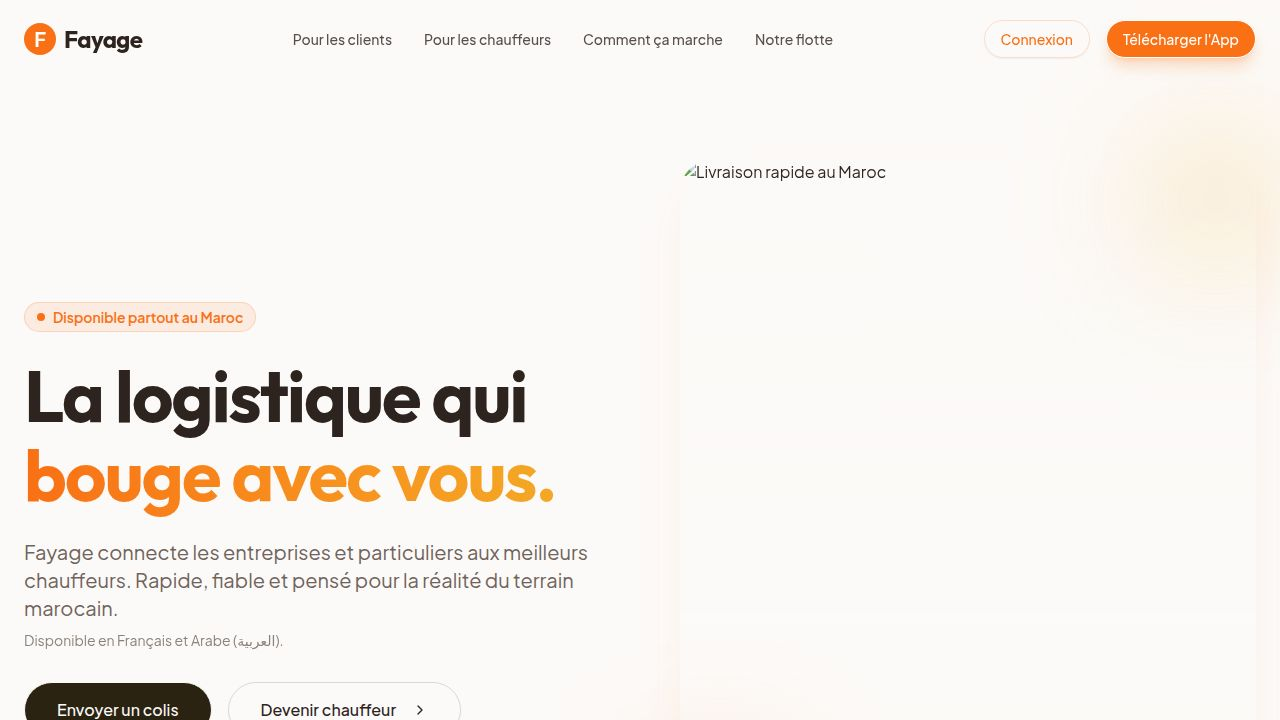
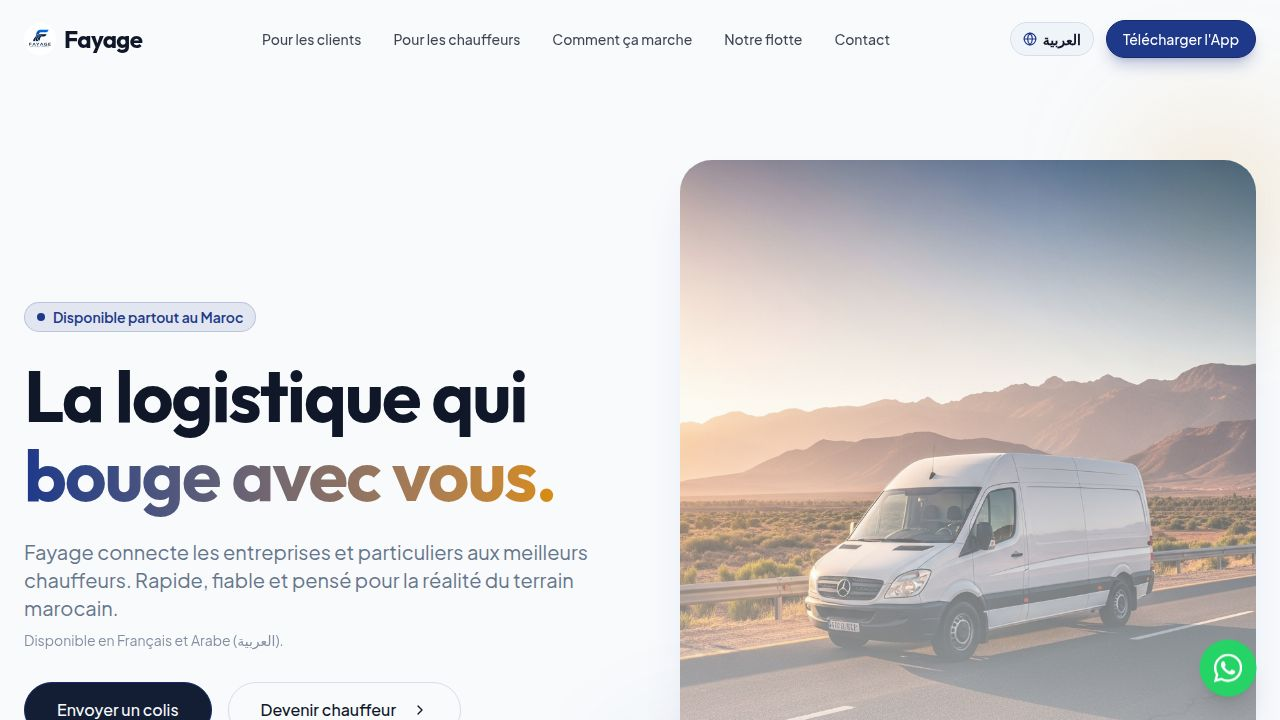
Fix error preventing the mobile app from launching
Resolve a circular import issue in `VoiceCallScreen.web.tsx` that caused a runtime crash by replacing the self-referencing export with a functional web fallback component.

Replit-Commit-Author: Agent
Replit-Commit-Session-Id: 109629f8-e805-491a-9d01-2f0f5c9dda43
Replit-Commit-Checkpoint-Type: full_checkpoint
Replit-Commit-Event-Id: 408c1b81-cdec-4674-aa23-cfdaa5160126
Replit-Commit-Screenshot-Url: https://storage.googleapis.com/screenshot-production-us-central1/bdb8f9e1-942b-4f8b-a3f1-cf6bf7dab315/109629f8-e805-491a-9d01-2f0f5c9dda43/80FPcTW
Replit-Helium-Checkpoint-Created: true

diff --git a/artifacts/mobile/screens/VoiceCallScreen.web.tsx b/artifacts/mobile/screens/VoiceCallScreen.web.tsx
@@ -1,1 +1,57 @@
-export { default } from "./VoiceCallScreen";
+import React from "react";
+import { View, StyleSheet, Pressable } from "react-native";
+import { useNavigation } from "@react-navigation/native";
+import { ThemedText } from "@/components/ThemedText";
+import { Icon } from "@/components/Icon";
+import { useLanguage } from "@/contexts/LanguageContext";
+
+export default function VoiceCallScreen() {
+  const navigation = useNavigation();
+  const { t } = useLanguage();
+
+  return (
+    <View style={styles.container}>
+      <Icon name="phone-off" size={48} color="#94A3B8" />
+      <ThemedText style={styles.title}>{t("voiceCallNotSupported") ?? "Appel non disponible"}</ThemedText>
+      <ThemedText style={styles.sub}>{t("voiceCallWebOnly") ?? "Les appels vocaux nécessitent l'application mobile."}</ThemedText>
+      <Pressable style={styles.btn} onPress={() => navigation.goBack()}>
+        <ThemedText style={styles.btnText}>{t("back") ?? "Retour"}</ThemedText>
+      </Pressable>
+    </View>
+  );
+}
+
+const styles = StyleSheet.create({
+  container: {
+    flex: 1,
+    alignItems: "center",
+    justifyContent: "center",
+    backgroundColor: "#0F172A",
+    gap: 16,
+    padding: 32,
+  },
+  title: {
+    fontSize: 20,
+    fontWeight: "700",
+    color: "#F1F5F9",
+    textAlign: "center",
+  },
+  sub: {
+    fontSize: 14,
+    color: "#94A3B8",
+    textAlign: "center",
+    lineHeight: 22,
+  },
+  btn: {
+    marginTop: 8,
+    paddingHorizontal: 28,
+    paddingVertical: 12,
+    backgroundColor: "#1E3A5F",
+    borderRadius: 12,
+  },
+  btnText: {
+    color: "#60A5FA",
+    fontWeight: "600",
+    fontSize: 15,
+  },
+});